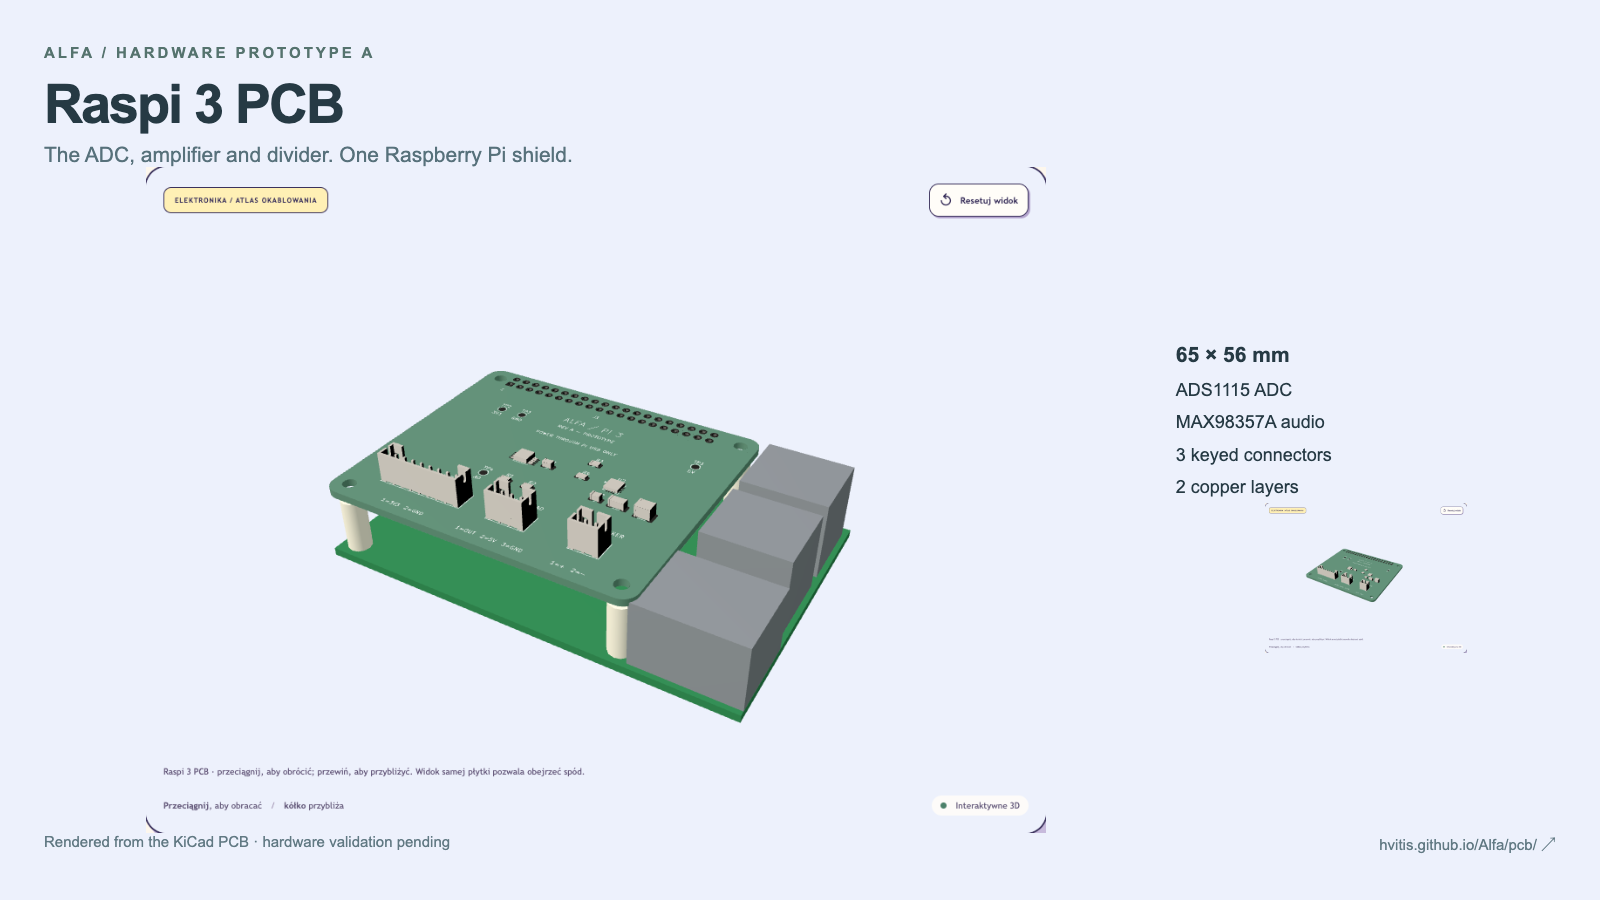
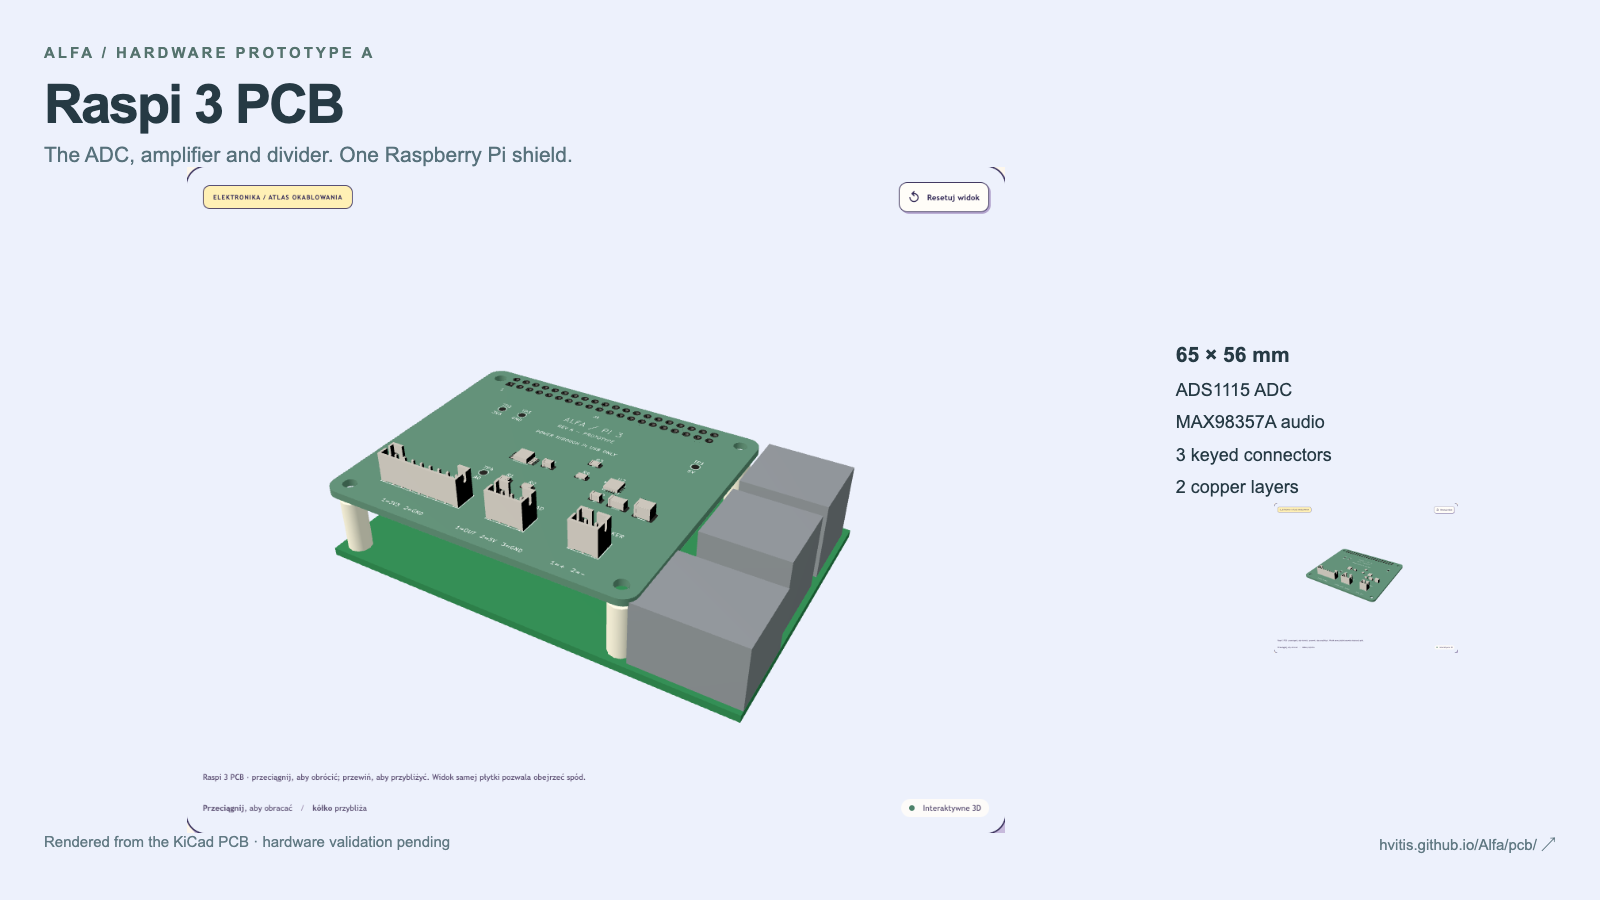
feat: website static build fix

diff --git a/web/app.js b/web/app.js
@@ -61,7 +61,9 @@ function initPillGroup(groupEl, inputEl, onChange) {
 
 function languageLinks() {
   for (const link of document.querySelectorAll('a[hreflang][lang]')) {
-    const url = new URL(link.getAttribute('href'), document.baseURI);
+    const isEn = link.getAttribute('lang') === 'en';
+    const basePath = isEn ? 'en/' : '';
+    const url = new URL(basePath, document.baseURI);
     url.search = location.search;
     url.hash = location.hash;
     link.href = url.href;
@@ -79,7 +81,7 @@ function syncRoute() {
   languageLinks();
 }
 
-function setEnclosureSubView(subview) {
+function setEnclosureSubView(subview, sync = true) {
   const input = $('#obudowa-view');
   if (input) input.value = subview;
   for (const btn of document.querySelectorAll('[data-subview]')) {
@@ -93,10 +95,10 @@ function setEnclosureSubView(subview) {
   if (sklejkaPanel) sklejkaPanel.hidden = subview !== 'sklejka';
   stlViewer?.setActive(activeTab === 'obudowa' && subview === 'filament');
   if (activeTab === 'obudowa') handle(showScene());
-  syncRoute();
+  if (sync) syncRoute();
 }
 
-function setController(controller) {
+function setController(controller, sync = true) {
   const input = $('#hardware-controller');
   if (input) input.value = controller;
   for (const btn of document.querySelectorAll('[data-controller]')) {
@@ -110,11 +112,12 @@ function setController(controller) {
   renderWires();
   $('#wire-detail').textContent = t('hw.choose');
   if (activeTab === 'elektronika') handle(showScene());
-  syncRoute();
+  if (sync) syncRoute();
 }
 
 function restoreRoute() {
   const route = readRoute(new URL(location.href));
+  activeTab = route.tab;
   for (const [,id] of routeFields) {
     if (id === 'assembly-mode') continue;
     const input = document.getElementById(id);
@@ -123,8 +126,8 @@ function restoreRoute() {
     const group = document.querySelector(`[data-for="${id}"]`);
     if (group) syncPillGroup(group, route.values[id]);
   }
-  setEnclosureSubView(route.values['obudowa-view'] || 'filament');
-  setController(route.values['hardware-controller'] || 'raspberry');
+  setEnclosureSubView(route.values['obudowa-view'] || 'filament', false);
+  setController(route.values['hardware-controller'] || 'raspberry', false);
   fillPlywood();
   const assembly = $('#assembly-mode');
   if (assembly) {
@@ -191,6 +194,7 @@ function fillPlywood() {
       btn.addEventListener('click', () => {
         $('#assembly-mode').value = value;
         syncPillGroup(group, value);
+        handle(viewer?.setMode(value));
         $('#assembly-mode').dispatchEvent(new Event('change', { bubbles: true }));
       });
       return btn;
@@ -361,7 +365,6 @@ async function activate(name, updateHash = true) {
     const panel = $(`#panel-${tab.dataset.tab}`);
     if (panel) panel.hidden = !selected;
   }
-  if (updateHash) history.replaceState(null, '', `#${name}`);
   if (updateHash) syncRoute();
   stlViewer?.setActive(name === 'obudowa' && $('#obudowa-view').value === 'filament');
   if (['obudowa', 'elektronika'].includes(name)) {
@@ -398,6 +401,7 @@ async function start() {
   initPillGroup($('[data-for="plywood-project"]'), $('#plywood-project'), () => { fillPlywood(); handle(showScene()); });
   initPillGroup($('[data-for="circuit-filter"]'), $('#circuit-filter'), val => { selectedWire = ''; viewer?.filter(val); renderWires(); selectWire(''); });
   initPillGroup($('[data-for="pcb-mode"]'), $('#pcb-mode'), val => handle(viewer?.setMode(val)));
+  $('#assembly-mode')?.addEventListener('change', () => handle(viewer?.setMode($('#assembly-mode').value)));
 
   // Subpage top navigation
   for (const btn of document.querySelectorAll('[data-subview]')) {

diff --git a/web/style.css b/web/style.css
@@ -344,8 +344,22 @@ footer div { display: flex; gap: 22px; }
   .site-nav {
     order: 3;
     width: 100%;
+    max-width: 100%;
+    box-sizing: border-box;
     justify-content: center;
-    overflow-x: auto;
+    flex-wrap: wrap;
+  }
+}
+@media (max-width: 760px) {
+  .site-nav {
+    border-radius: 20px;
+    padding: 4px;
+    gap: 4px;
+  }
+  .nav-btn {
+    padding: 6px 10px;
+    font-size: 12px;
+    gap: 4px;
   }
 }
 
@@ -356,6 +370,8 @@ footer div { display: flex; gap: 22px; }
   align-items: center;
   gap: 16px;
   margin: 10px 0 28px;
+  flex-wrap: wrap;
+  max-width: 100%;
 }
 .big-subnav-btn {
   min-width: 170px;
@@ -370,6 +386,20 @@ footer div { display: flex; gap: 22px; }
   box-shadow: 3px 4px 0 var(--ink);
   cursor: pointer;
   transition: transform .15s, box-shadow .15s, background .15s;
+}
+@media (max-width: 760px) {
+  .subpage-top-nav {
+    gap: 8px;
+    margin: 6px 0 20px;
+  }
+  .big-subnav-btn {
+    min-width: 90px;
+    min-height: 42px;
+    padding: 8px 16px;
+    font-size: 15px;
+    border-radius: 16px;
+    box-shadow: 2px 3px 0 var(--ink);
+  }
 }
 .big-subnav-btn:hover {
   transform: translateY(-2px);
@@ -400,6 +430,9 @@ footer div { display: flex; gap: 22px; }
   border: 1.5px solid #ab9bc1;
   border-radius: 16px;
   box-shadow: inset 1px 1px 2px rgba(0,0,0,0.06);
+  flex-wrap: wrap;
+  max-width: 100%;
+  box-sizing: border-box;
 }
 .pill-group.chips {
   flex-wrap: wrap;
@@ -430,10 +463,14 @@ footer div { display: flex; gap: 22px; }
   flex-wrap: wrap;
   gap: 20px;
   margin: 18px 0;
+  max-width: 100%;
+  box-sizing: border-box;
 }
 .pricing-control-block {
   display: flex;
   flex-direction: column;
+  max-width: 100%;
+  box-sizing: border-box;
 }
 
 /* Main page feature cards */

diff --git a/tests/test_publication.py b/tests/test_publication.py
@@ -98,9 +98,10 @@ class PackageTests(unittest.TestCase):
                 self.assertTrue(json.loads(archive.read("verification.json"))["passed"])
             self.assertTrue(any(name.endswith(".glb") for name in files))
             self.assertTrue(any(name.endswith(".js") for name in files))
-            # Only the original CAD render and social cards are public raster assets.
+            # Only the original CAD render, social cards, and main showcase previews are public raster assets.
             pngs={name for name in files if name.endswith(".png")}
-            self.assertEqual(pngs,{"og-cloud.png", "og-pcb.png"})
+            allowed_stems = {"og-cloud", "og-pcb", "cloud-render", "house-preview", "pdf-preview", "software-architecture"}
+            self.assertTrue(all(any(stem in name for stem in allowed_stems) for name in pngs), f"Unexpected png in export: {pngs}")
             self.assertFalse(any(name.endswith((".jpg", ".wav", ".gif")) for name in files))
             self.assertTrue((Path(directory)/"docs/adr.pdf").read_bytes().startswith(b"%PDF-"))
             # The fictional MDR example ships only as clearly marked teaching material.
